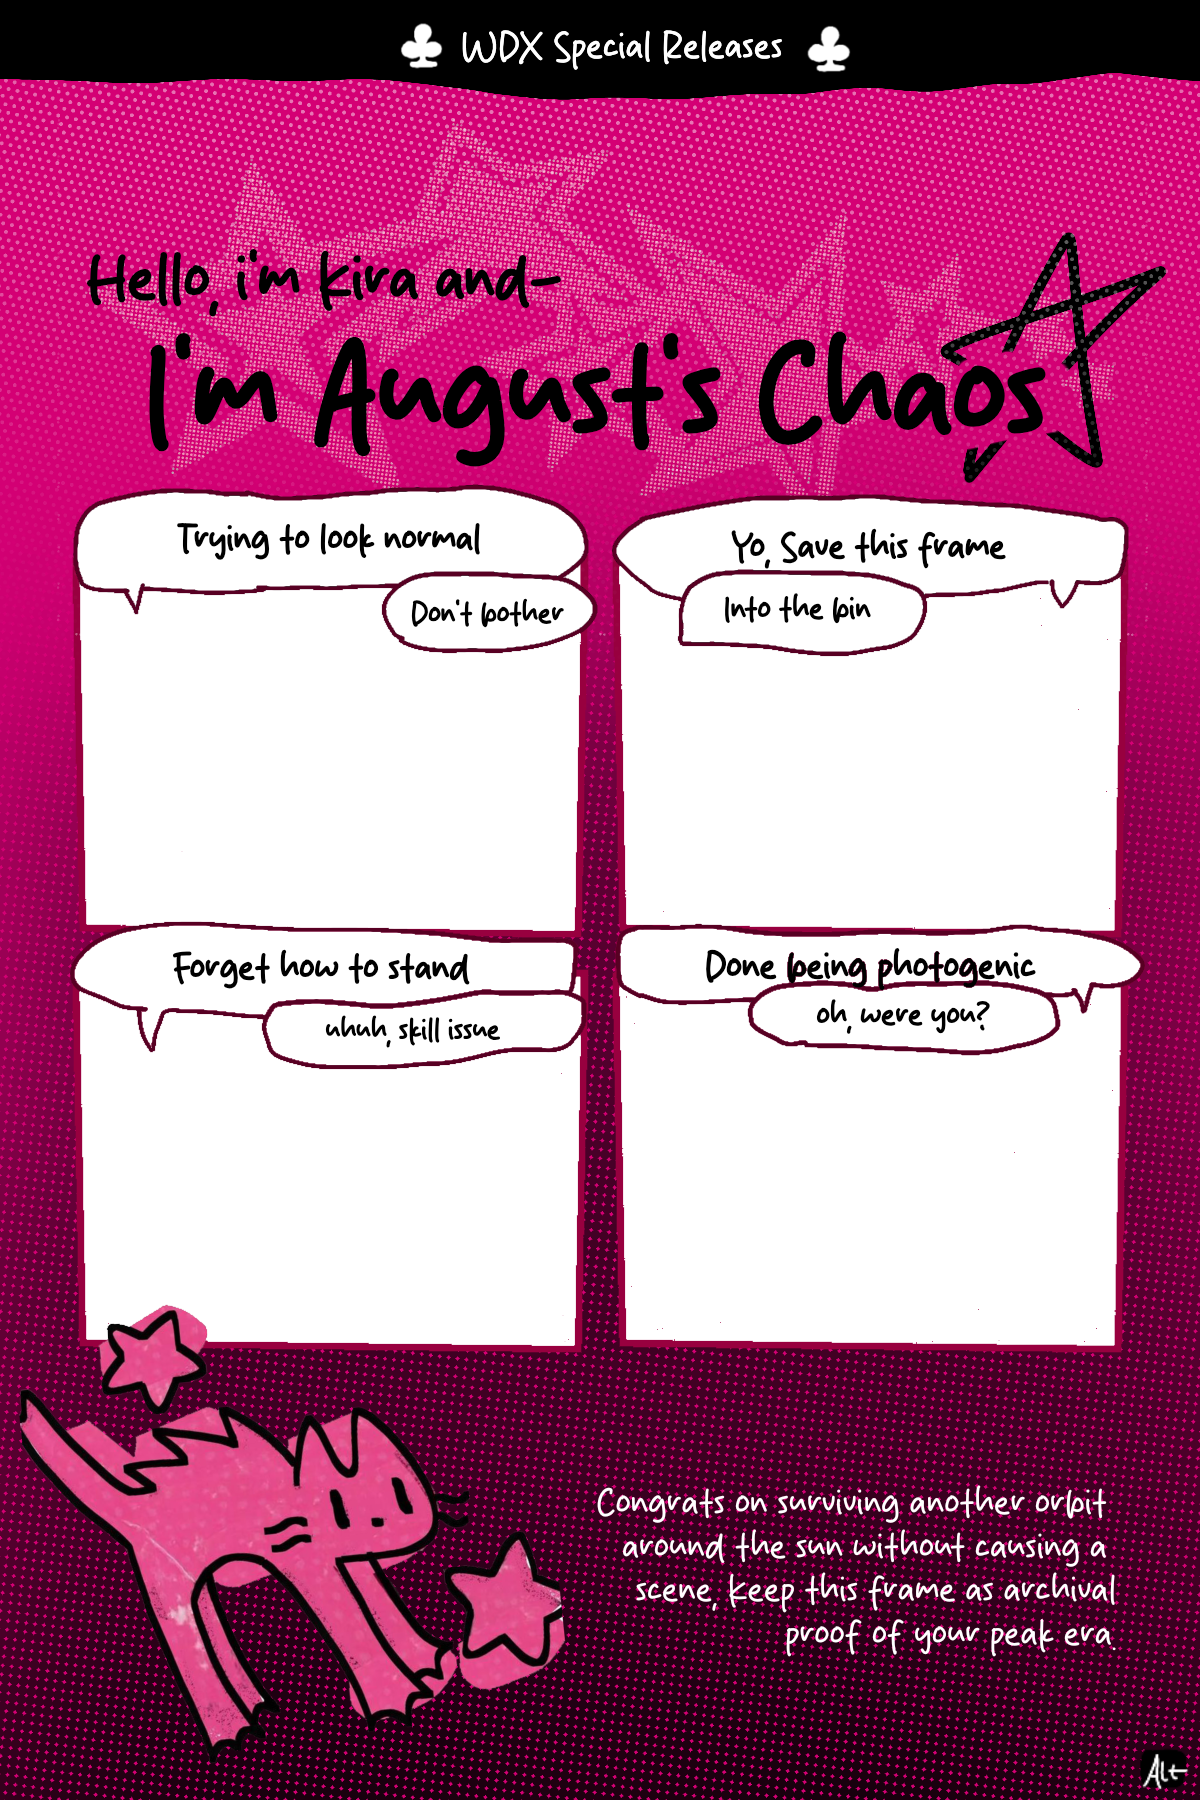
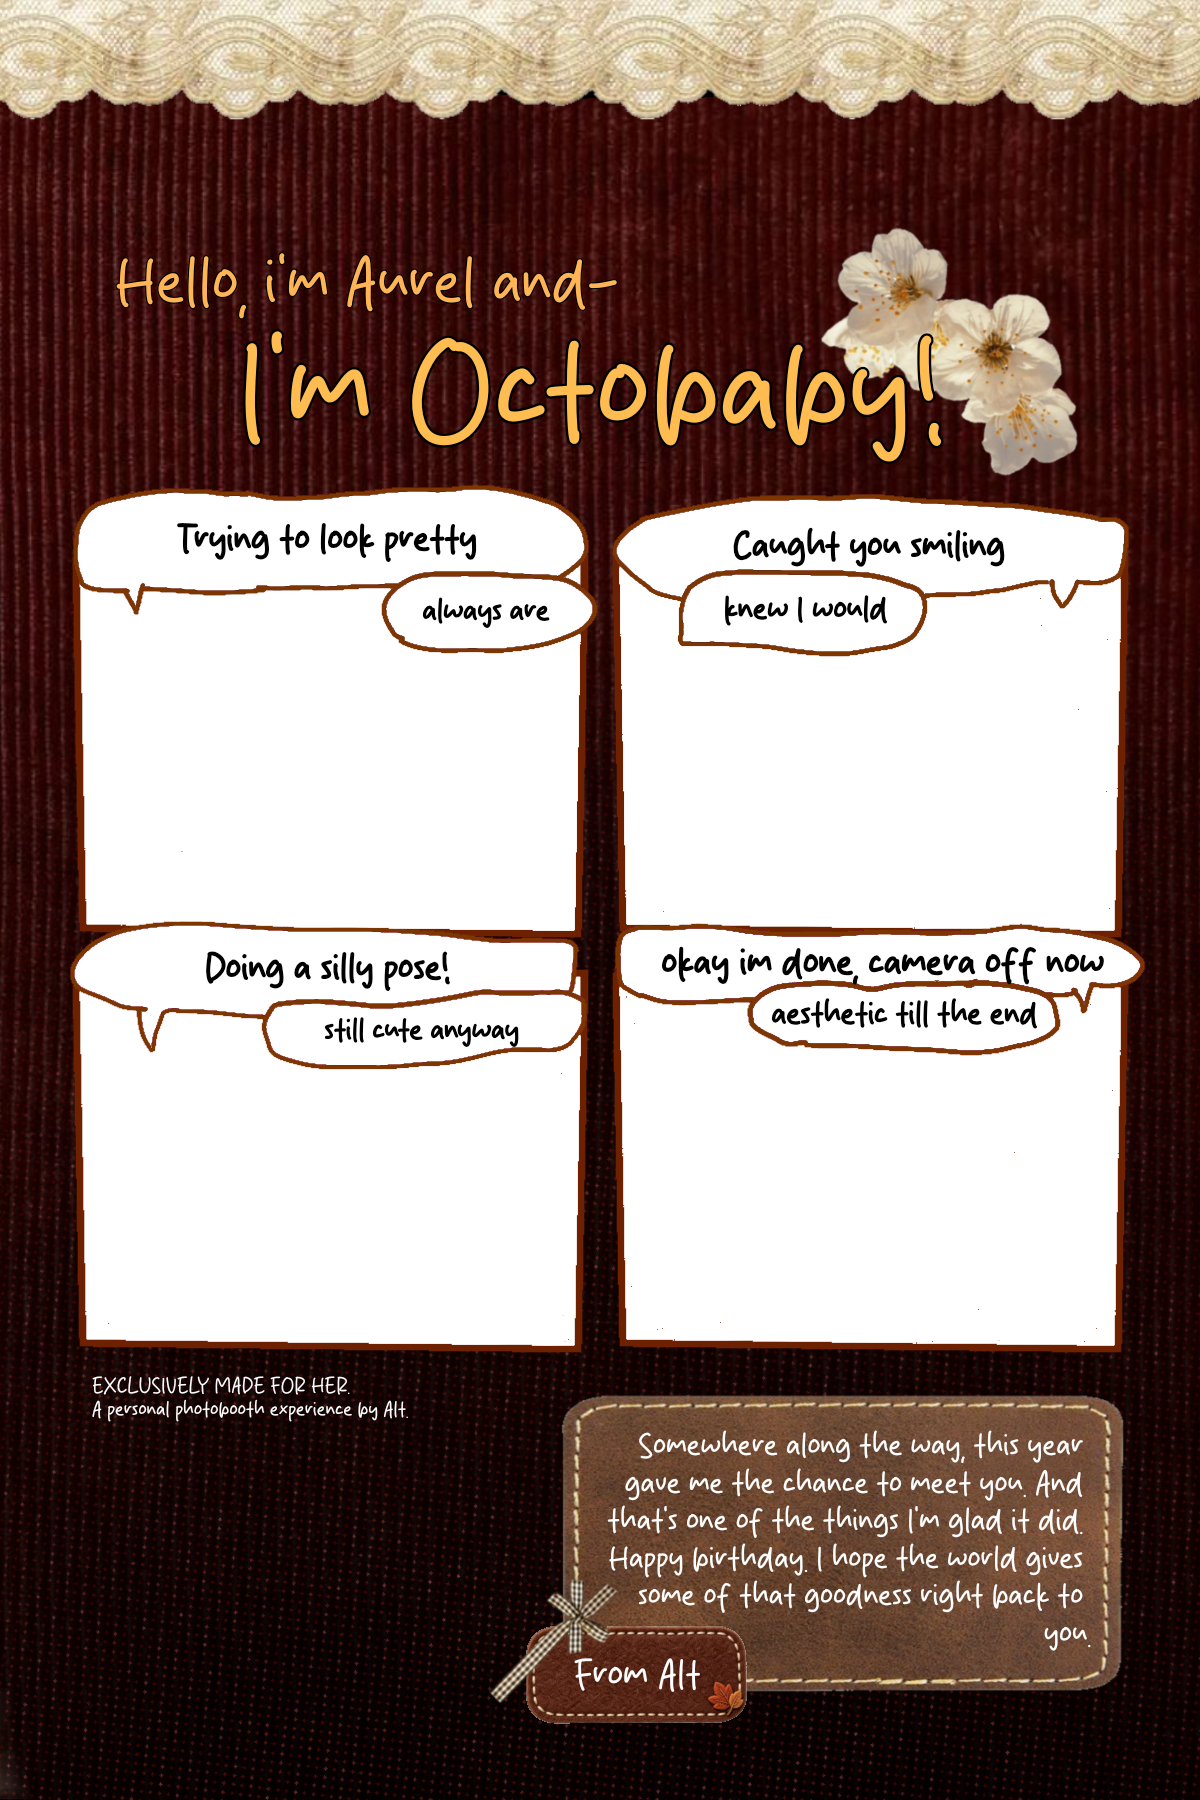
feat: customize photobooth for Aurel

diff --git a/index.html b/index.html
@@ -4,7 +4,7 @@
 <head>
     <meta charset="UTF-8">
     <meta name="viewport" content="width=device-width, initial-scale=1.0, maximum-scale=1.0, user-scalable=no">
-    <title>Kira Photobooth - Special Edition</title>
+    <title>Aurel Photobooth - Special Edition</title>
 
     <link rel="icon" type="image/png" href="assets/camera.png">
     <link rel="shortcut icon" type="image/png" href="assets/camera.png">
@@ -17,13 +17,13 @@
     <style>
         /* --- Design System --- */
         :root {
-            --paper-color: #fff5f7;
-            --ink-color: #4a2e3b;
-            --machine-body: #ffb6c1;
-            --machine-highlight: #ffd1dc;
-            --machine-shadow: #c86b81;
-            --metal-silver: #f4c2c2;
-            --screen-glow: rgba(255, 182, 193, 0.3);
+            --paper-color: #fdfbf7;
+            --ink-color: #3b2219;
+            --machine-body: #fce79a;
+            --machine-highlight: #fff3be;
+            --machine-shadow: #d4a73b;
+            --metal-silver: #eedbb2;
+            --screen-glow: rgba(252, 231, 154, 0.35);
         }
 
         /* Reset */
@@ -47,12 +47,9 @@
 
         body {
             font-family: 'Patrick Hand', cursive;
-            background-color: #e0e0e0;
-            background-image:
-                linear-gradient(#cccccc 1px, transparent 1px),
-                linear-gradient(90deg, #cccccc 1px, transparent 1px);
-            background-size: 30px 30px;
-            background-position: -1px -1px;
+            background-color: #f5eedc;
+            background-image: radial-gradient(#d8c7a5 18%, transparent 19%);
+            background-size: 24px 24px;
             color: var(--ink-color);
             /* Body tetap rata atas agar halaman panjang bisa discroll */
             display: flex;
@@ -1016,7 +1013,7 @@
                             </div>
                             <p style="font-family: 'VT323'; font-size: 1.1rem; text-align: center;">SYSTEM
                                 LOCKED.<br>VERIFY IDENTITY.</p>
-                            <p style="font-size: 0.9rem; margin-bottom: 5px;">Kapan ulang tahun Kira?</p>
+                            <p style="font-size: 0.9rem; margin-bottom: 5px;">Kapan ulang tahun Aurel?</p>
                             <div class="date-select-container">
                                 <select id="sel-day" class="terminal-select" style="flex: 1.2;">
                                     <option value="">TGL</option>
@@ -1036,8 +1033,8 @@
 
                         <div id="screen-unlocked" class="screen-section screen-hidden">
                             <img src="assets/camera.png" alt="Camera Doodle" class="landing-icon">
-                            <h1>Kira Photobooth</h1>
-                            <p>Siap2 dandan ya, mw difoto soalnya</p>
+                            <h1>Aurel Photobooth</h1>
+                            <p>sebuah peringatan kecil2 an dari belahan duo rel mu</p>
                         </div>
 
                     </div>
@@ -1054,7 +1051,7 @@
                 </div>
 
                 <div class="levina-plaque">
-                    CUSTOM BUILT FOR: KIRA
+                    CUSTOM BUILT FOR: AUREL
                 </div>
 
             </div>
@@ -1175,31 +1172,31 @@
             isLocked: true
         };
         let editorState = { mode: 'adjust', selectedIndex: 0, swapSourceIndex: null };
-        const CORRECT_DAY = "23";
-        const CORRECT_MONTH = "08";
-        const CORRECT_YEAR = "2006";
+        const CORRECT_DAY = "08";
+        const CORRECT_MONTH = "10";
+        const CORRECT_YEAR = "2003";
 
         const LANDING_PHRASES = [
-            "Siap2 dandan ya, mw difoto soalnya",
-            "Gausa alay",
-            "foto lah sekali2 sm customer jg gapapa",
-            "Mesin ini khusus dibuat untuk Kira soalnya lagi habede",
-            "ayo kor",
-            "Kamera ajaib khusus hari spesial Kira",
-            "Udah siap belum? gece pencet START"
+            "sebuah peringatan kecil2 an dari belahan duo rel mu",
+            "met ultah yang mpiqs",
+            "you are not alone, at least im here",
+            "octo-friends ya kita kalo dipikir2",
+            "Siap2 dandan ya Rell, mw difoto nih",
+            "Mesin ini khusus dibuat untuk Aurelsss",
+            "Udah siap belum Rell? buruan pencet START!"
         ];
 
         const CAMERA_PHRASES = [
-            "Siap Pose!",
+            "Siap Pose, Rell!",
             "Gaya Bebas!",
             "Senyum Pepsodent!",
-            "Gausah alay",
+            "Tunjukkan senyum manismu Aurel!",
             "Tahan Napas...",
             "Lirik Kanan Dikit",
             "Gaya Model Papan Atas!",
-            "Siap Ya!",
             "1, 2, 3, CHEESE!",
-            "Tunjukkan Senyum Manismu Kir!"
+            "Lucu banget sih Rell!",
+            "Pose andalan keluarin sekarang!"
         ];
 
         // DOM Elements
@@ -1432,7 +1429,7 @@
         function handleSwapLogic(index) {
             const thumbs = document.querySelectorAll('.editor-thumb');
             if (editorState.swapSourceIndex === null) { editorState.swapSourceIndex = index; thumbs[index].classList.add('swap-target'); }
-            else { const idx1 = editorState.swapSourceIndex; const idx2 = index; if (idx1 !== idx2) { [state.photos[idx1], state.photos[idx2]] = [state.photos[idx2], state.photos[idx1]]; [state.photoConfigs[idx1], state.photoConfigs[idx2]] = [state.photoConfigs[idx2], state.photoConfigs[idx1]]; renderEditorGrid(); } editorState.swapSourceIndex = null; }
+            else { const idx1 = editorState.swapSourceIndex; const idx2 = index; if (idx1 !== idx2) { [state.photos[idx1], state.photos[idx2]] = [state.photos[idx2], state.photos[idx1]];[state.photoConfigs[idx1], state.photoConfigs[idx2]] = [state.photoConfigs[idx2], state.photoConfigs[idx1]]; renderEditorGrid(); } editorState.swapSourceIndex = null; }
         }
         function updatePhotoSettings() {
             const idx = editorState.selectedIndex; const cfg = state.photoConfigs[idx];
@@ -1508,7 +1505,7 @@
 
         function handleSaveAndShowSuccess() {
             const link = document.createElement('a');
-            link.download = 'Kira-Photobooth-' + Date.now() + '.jpg';
+            link.download = 'Aurel-Photobooth-' + Date.now() + '.jpg';
             link.href = finalCanvas.toDataURL('image/jpeg', 1.0);
             link.click();
             switchPage(pages.editing, pages.saved);

diff --git a/photo.html b/photo.html
@@ -4,26 +4,26 @@
 <head>
     <meta charset="UTF-8">
     <meta name="viewport" content="width=device-width, initial-scale=1.0, maximum-scale=1.0, user-scalable=no">
-    <title>Kira Photobooth - Special Edition</title>
+    <title>Aurel Photobooth - Special Edition</title>
 
     <link rel="icon" type="image/png" href="assets/camera.png">
     <link rel="shortcut icon" type="image/png" href="assets/camera.png">
 
     <link rel="preconnect" href="https://fonts.googleapis.com">
-    <link rel="preconnect" href="https://fonts.gstatic.com" crossorigin>
+    <link rel="preconnect" href="https://gstatic.com" crossorigin>
     <link href="https://fonts.googleapis.com/css2?family=Indie+Flower&family=Patrick+Hand&family=VT323&display=swap"
         rel="stylesheet">
 
     <style>
         /* --- Design System --- */
         :root {
-            --paper-color: #fff5f7;
-            --ink-color: #4a2e3b;
-            --machine-body: #ffb6c1;
-            --machine-highlight: #ffd1dc;
-            --machine-shadow: #c86b81;
-            --metal-silver: #f4c2c2;
-            --screen-glow: rgba(255, 182, 193, 0.3);
+            --paper-color: #fdfbf7;
+            --ink-color: #3b2219;
+            --machine-body: #fce79a;
+            --machine-highlight: #fff3be;
+            --machine-shadow: #d4a73b;
+            --metal-silver: #eedbb2;
+            --screen-glow: rgba(252, 231, 154, 0.35);
         }
 
         /* Reset */
@@ -47,12 +47,9 @@
 
         body {
             font-family: 'Patrick Hand', cursive;
-            background-color: #e0e0e0;
-            background-image:
-                linear-gradient(#cccccc 1px, transparent 1px),
-                linear-gradient(90deg, #cccccc 1px, transparent 1px);
-            background-size: 30px 30px;
-            background-position: -1px -1px;
+            background-color: #f5eedc;
+            background-image: radial-gradient(#d8c7a5 18%, transparent 19%);
+            background-size: 24px 24px;
             color: var(--ink-color);
             /* Body tetap rata atas agar halaman panjang bisa discroll */
             display: flex;
@@ -1014,7 +1011,7 @@
                             </div>
                             <p style="font-family: 'VT323'; font-size: 1.1rem; text-align: center;">SYSTEM
                                 LOCKED.<br>VERIFY IDENTITY.</p>
-                            <p style="font-size: 0.9rem; margin-bottom: 5px;">Kapan ulang tahun Kira?</p>
+                            <p style="font-size: 0.9rem; margin-bottom: 5px;">Kapan ulang tahun Aurel?</p>
                             <div class="date-select-container">
                                 <select id="sel-day" class="terminal-select" style="flex: 1.2;">
                                     <option value="">TGL</option>
@@ -1034,8 +1031,8 @@
 
                         <div id="screen-unlocked" class="screen-section screen-hidden">
                             <img src="assets/camera.png" alt="Camera Doodle" class="landing-icon">
-                            <h1>Kira Photobooth</h1>
-                            <p>Siap2 dandan ya, mw difoto soalnya</p>
+                            <h1>Aurel Photobooth</h1>
+                            <p>sebuah peringatan kecil2 an dari belahan duo rel mu</p>
                         </div>
 
                     </div>
@@ -1052,7 +1049,7 @@
                 </div>
 
                 <div class="levina-plaque">
-                    CUSTOM BUILT FOR: KIRA
+                    CUSTOM BUILT FOR: AUREL
                 </div>
 
             </div>
@@ -1172,31 +1169,31 @@
             isLocked: true
         };
         let editorState = { mode: 'adjust', selectedIndex: 0, swapSourceIndex: null };
-        const CORRECT_DAY = "23";
-        const CORRECT_MONTH = "08";
-        const CORRECT_YEAR = "2006";
+        const CORRECT_DAY = "08";
+        const CORRECT_MONTH = "10";
+        const CORRECT_YEAR = "2003";
 
         const LANDING_PHRASES = [
-            "Siap2 dandan ya, mw difoto soalnya",
-            "Jangan malu2 pwis",
-            "B-bawa bunganya dong, mw liat",
-            "Mesin ini khusus dibuat untuk Kira",
-            "Ayo lucu lucuannn",
-            "Kamera ajaib khusus hari spesial Kira",
-            "Udah siap belum? gece pencet START"
+            "sebuah peringatan kecil2 an dari belahan duo rel mu",
+            "met ultah yang mpiqs",
+            "you are not alone, at least im here",
+            "octo-friends ya kita kalo dipikir2",
+            "Siap2 dandan ya Rell, mw difoto nih",
+            "Mesin ini khusus dibuat untuk Aurel tersayang",
+            "Udah siap belum Rell? buruan pencet START!"
         ];
 
         const CAMERA_PHRASES = [
-            "Siap Pose!",
+            "Siap Pose, Rell!",
             "Gaya Bebas!",
             "Senyum Pepsodent!",
-            "Gausah disipit2in",
+            "Tunjukkan senyum manismu Aurel!",
             "Tahan Napas...",
             "Lirik Kanan Dikit",
             "Gaya Model Papan Atas!",
-            "Siap Ya!",
             "1, 2, 3, CHEESE!",
-            "Tunjukkan Senyum Manismu Kir!"
+            "Lucu banget sih Rell!",
+            "Pose andalan keluarin sekarang!"
         ];
 
         // DOM Elements
@@ -1506,7 +1503,7 @@
 
         function handleSaveAndShowSuccess() {
             const link = document.createElement('a');
-            link.download = 'Kira-Photobooth-' + Date.now() + '.jpg';
+            link.download = 'Aurel-Photobooth-' + Date.now() + '.jpg';
             link.href = finalCanvas.toDataURL('image/jpeg', 1.0);
             link.click();
             switchPage(pages.editing, pages.saved);
